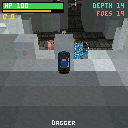
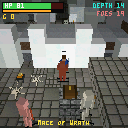
docs: distinct lava, platforms and frostvault guide shots
The lava and platforms images were near-duplicates of the same scene
with the hero clipped inside the chasm bank. The goto-lava debug now
only ever stands the hero on a genuinely standable rim cell (plus a
bridge-centre mode 3), and the three shots are now distinct moments:
- lava: hero on the rim path over a big glowing pool, slime across
- platforms: hero on the bonus island as the ferry slab floats in
- frostvault: geared hero before an ice wall, bone scatter, chest
  plinth, rat + ghost-bat

diff --git a/src/rogue_game.c b/src/rogue_game.c
@@ -815,6 +815,8 @@ void rogue_game_debug_weapon_sheet(void) {
     rogue_inventory_open();
 }
 
+static bool dbg_standable(int x, int z);
+
 /* Stand the hero a few tiles in front of the first lava cell (screenshot).
  * mode 2: stand on the chasm's bonus island instead (lava on all sides). */
 int rogue_game_debug_goto_lava(int mode) {
@@ -823,12 +825,35 @@ int rogue_game_debug_goto_lava(int mode) {
                           s_level.island_z[0] + 0.5f);
         return 2;
     }
+    if (mode == 3 && s_level.n_chasm > 0) {
+        /* Stand ON the cross-bridge at the chasm centre — lava both sides.
+         * Spiral out to the nearest standable cell. */
+        int cx = s_level.chasm_x[0], cz = s_level.chasm_z[0];
+        for (int r = 0; r <= 4; r++)
+            for (int dz = -r; dz <= r; dz++)
+                for (int dx = -r; dx <= r; dx++) {
+                    int ax = dx < 0 ? -dx : dx, az = dz < 0 ? -dz : dz;
+                    if (ax != r && az != r) continue;     /* ring cells only */
+                    if (dbg_standable(cx + dx, cz + dz)) {
+                        s_player.pos = v3(cx + dx + 0.5f, (float)s_level.floor_y,
+                                          cz + dz + 0.5f);
+                        return 3;
+                    }
+                }
+    }
+    /* Default: the chasm's north rim, camera looking south into the pit —
+     * but ONLY on a genuinely standable cell (never inside the bank). */
     for (int z = 0; z < CRAFT_WORLD_Z; z++)
         for (int x = 0; x < CRAFT_WORLD_X; x++)
             for (int y = s_level.floor_y - 3; y <= s_level.floor_y; y++)
                 if (craft_is_lava_id((uint8_t)craft_world_get(x, y, z))) {
-                    s_player.pos = v3(x + 0.5f, (float)s_level.floor_y, z - 4.5f);
-                    return 1;
+                    for (int back = 2; back <= 6; back++)
+                        if (dbg_standable(x, z - back)) {
+                            s_player.pos = v3(x + 0.5f, (float)s_level.floor_y,
+                                              z - back + 0.5f);
+                            return 1;
+                        }
+                    /* this lava cell has no standable rim — keep scanning */
                 }
     return 0;
 }
